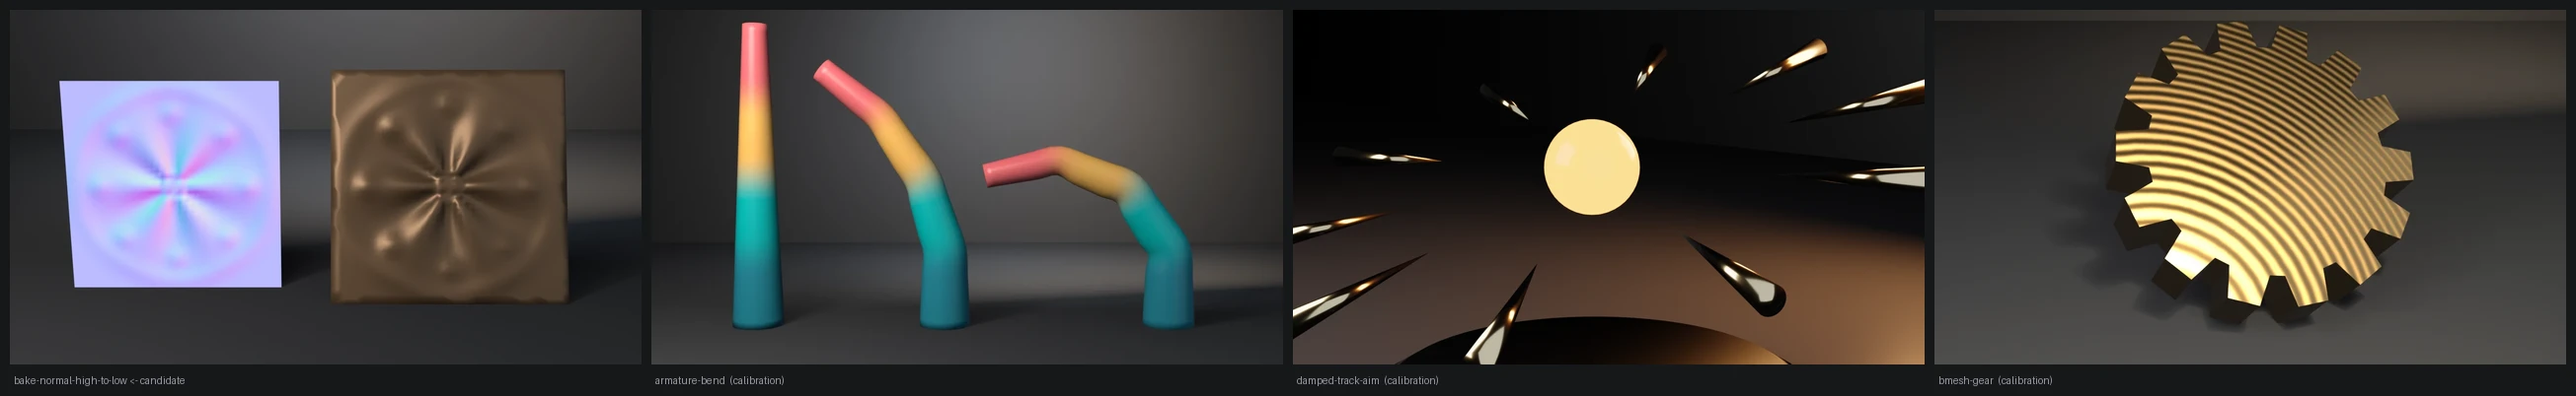
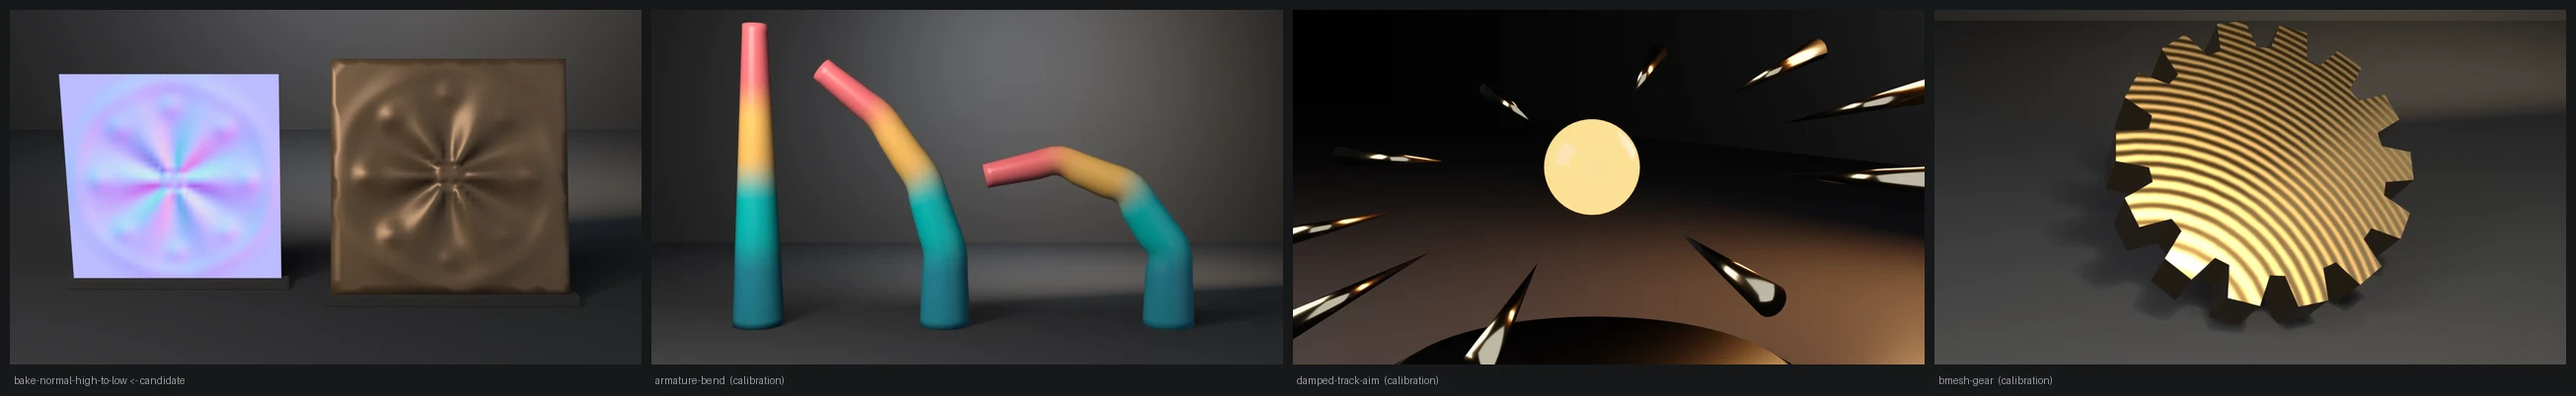
fix(examples): stand the bake-normal panels in plinths
Render path only. Both panels balanced on an edge and the leaning plate
pierced the floor; each now stands in a low plinth, lifted so its lowest
evaluated point seats 35 mm in the slot. The solidify rim wears plain
bronze rather than the baked map. Bake statistics (frac 0.7211, MAD
0.09356) and exit codes unchanged on all three binaries.

Changed region(s): [[0.0, 0.1493, 0.2172, 0.6269], [0.031, 0.6866, 0.2172, 0.7761]]

diff --git a/docs/gallery/bake-normal-high-to-low/index.html b/docs/gallery/bake-normal-high-to-low/index.html
@@ -16,13 +16,13 @@
   <meta property="og:image" content="https://tmhsdigital.github.io/Blender-Developer-Tools/gallery/assets/bake-normal-high-to-low-hero.webp" />
   <meta property="og:image:width" content="1280" />
   <meta property="og:image:height" content="720" />
-  <meta property="og:image:alt" content="A baked tangent-space normal map shown as a lilac card beside a bronze plate wearing it, with a radial embossed pattern." />
+  <meta property="og:image:alt" content="A baked tangent-space normal map shown as a lilac card beside a bronze plate wearing it, with a radial embossed pattern, both standing in low display plinths." />
   <meta property="og:site_name" content="Blender Developer Tools" />
   <meta name="twitter:card" content="summary_large_image" />
   <meta name="twitter:title" content="bake-normal-high-to-low — Examples — Blender Developer Tools" />
   <meta name="twitter:description" content="A collapse-decimated hatch plate receiving a Cycles cage-baked tangent normal map from a ribbed high-poly source" />
   <meta name="twitter:image" content="https://tmhsdigital.github.io/Blender-Developer-Tools/gallery/assets/bake-normal-high-to-low-hero.webp" />
-  <meta name="twitter:image:alt" content="A baked tangent-space normal map shown as a lilac card beside a bronze plate wearing it, with a radial embossed pattern." />
+  <meta name="twitter:image:alt" content="A baked tangent-space normal map shown as a lilac card beside a bronze plate wearing it, with a radial embossed pattern, both standing in low display plinths." />
   <style>
     /* fonts are deployed by the landing build (docs/fonts/) */
     @font-face { font-family: 'Barlow Condensed'; font-weight: 600; font-display: swap;
@@ -268,8 +268,8 @@
     <p>A collapse-decimated hatch plate receiving a Cycles cage-baked tangent normal map from a ribbed high-poly source</p>
   </header>
   <main id="main">
-    <button class="detail-hero" id="heroZoom" type="button" aria-label="View full size: A baked tangent-space normal map shown as a lilac card beside a bronze plate wearing it, with a radial embossed pattern.">
-      <img src="../assets/bake-normal-high-to-low-hero.webp" alt="A baked tangent-space normal map shown as a lilac card beside a bronze plate wearing it, with a radial embossed pattern." width="1280" height="720" />
+    <button class="detail-hero" id="heroZoom" type="button" aria-label="View full size: A baked tangent-space normal map shown as a lilac card beside a bronze plate wearing it, with a radial embossed pattern, both standing in low display plinths.">
+      <img src="../assets/bake-normal-high-to-low-hero.webp" alt="A baked tangent-space normal map shown as a lilac card beside a bronze plate wearing it, with a radial embossed pattern, both standing in low display plinths." width="1280" height="720" />
     </button>
     <p class="zoom-hint">Rendered headless by the example itself — click to zoom.</p>
     <div class="callout"><span class="tag">witnesses</span> Statistical gates not byte-identity: detail frac 0.7211 / MAD 0.09356 vs flat 0.0000 / 0.00277; --flat-source exits 5; type=NORMAL not bake_type; RNA identical on 4.5.11, 5.1.2, 5.2.1</div>
@@ -284,6 +284,7 @@
 <ul><li><strong>Detail bake is not flat.</strong> <code>frac &gt;= 0.40</code> and <code>MAD &gt;= 0.05</code> (measured 0.7211 / 0.09356 on 4.5.11, 5.1.2, and 5.2.1). Catches an inactive Image Texture node, reversed selection, or EEVEE/GPU mis-setup that writes a blank map. MAD floor is half the measured hatch value, still ~30× a flat bake.</li><li><strong>Flat control is flat.</strong> <code>frac &lt;= 0.05</code> and <code>MAD &lt;= 0.03</code> (measured 0.0000 / 0.00277). Catches a noisy or wrongly-typed bake that would also satisfy the detail gates.</li><li><strong>Monotonic gap.</strong> <code>detail_frac - flat_frac &gt;= 0.30</code>. The two maps must separate; a tolerance wide enough to pass both would have no discriminating power.</li><li><strong><code>--flat-source</code> is the falsifier.</strong> Skips the ribs and still runs the detail gates. Must exit 5. Analogous to <code>--same-axis</code> in <a href="https://github.com/TMHSDigital/Blender-Developer-Tools/tree/main/examples/export-preset-axis"><code>export-preset-axis</code></a>.</li></ul>
 <p>Neighbor of <a href="https://github.com/TMHSDigital/Blender-Developer-Tools/tree/main/examples/lod-decimate-chain"><code>lod-decimate-chain</code></a> (the LOD is the cage target; collapse keeps UVs) and <a href="https://github.com/TMHSDigital/Blender-Developer-Tools/tree/main/examples/image-pixels-testcard"><code>image-pixels-testcard</code></a> (<code>save_render</code>, not <code>Image.save()</code>, if you persist the datablock). UV transfer and atlas packing are out of scope.</p>
 <p>The still stages the baked map as an unlit card beside the LOD wearing it. If the bake were flat, the card would be uniform <code>(128, 128, 255)</code> periwinkle and the plate would shade like the undisplaced cage.</p>
+<p>Staging is render-only. Each panel stands in a low display plinth, lifted so its lowest evaluated point sits 35 mm in the slot. Both panels used to balance on an edge, and the leaning plate pierced the floor. The solidify rim wears plain bronze instead of the baked map. The slight waviness along the plate&#x27;s border is the bake itself, normal-map shading inside the UV margin, and is left as the map produces it. Bake statistics are unchanged: frac 0.7211, MAD 0.09356 on all three binaries.</p>
 <p>Operator RNA (<code>type=&#x27;NORMAL&#x27;</code>, <code>use_selected_to_active</code>, <code>cage_extrusion</code>, <code>cage_object</code> as a string, <code>normal_space=&#x27;TANGENT&#x27;</code>, <code>margin_type</code>) is identical on 4.5.11, 5.1.2, and 5.2.1 — no shim.</p>
 <h2>Run</h2>
 <pre><code># Cheap correctness check (no render) - the CI check:
@@ -686,6 +687,55 @@ FLAT_RGB = (<span class="n">0.5</span>, <span class="n">0.5</span>, <span class=
     <span class="k">return</span> ob
 
 
+PLINTH_H = <span class="n">0.10</span>
+PLINTH_SEAT = <span class="n">0.035</span>
+PLINTH_PAD = <span class="n">0.08</span>
+
+
+<span class="k">def</span> seat_on_plinth(ob, name):
+    <span class="s">&quot;&quot;&quot;Stand a display panel in a low plinth by its own lowest point.
+
+    Render-only staging. The panel is lifted so its lowest evaluated vertex
+    sits PLINTH_SEAT inside a dark slab sized from the panel&#x27;s footprint.
+    Both panels used to balance on an edge, and the leaning plate&#x27;s lower
+    edge pierced the floor.
+    &quot;&quot;&quot;</span>
+    bpy.context.view_layer.update()
+    dg = bpy.context.evaluated_depsgraph_get()
+    ev = ob.evaluated_get(dg)
+    me = ev.to_mesh()
+    <span class="k">try</span>:
+        pts = [ev.matrix_world @ v.co <span class="k">for</span> v <span class="k">in</span> me.vertices]
+    <span class="k">finally</span>:
+        ev.to_mesh_clear()
+    ob.location.z += (PLINTH_H - PLINTH_SEAT) - min(p.z <span class="k">for</span> p <span class="k">in</span> pts)
+    base = [p <span class="k">for</span> p <span class="k">in</span> pts <span class="k">if</span> p.z &lt; min(q.z <span class="k">for</span> q <span class="k">in</span> pts) + <span class="n">0.15</span>]
+    x0 = min(p.x <span class="k">for</span> p <span class="k">in</span> base) - PLINTH_PAD
+    x1 = max(p.x <span class="k">for</span> p <span class="k">in</span> base) + PLINTH_PAD
+    y0 = min(p.y <span class="k">for</span> p <span class="k">in</span> base) - PLINTH_PAD
+    y1 = max(p.y <span class="k">for</span> p <span class="k">in</span> base) + PLINTH_PAD
+    slab = bpy.data.meshes.new(name)
+    bm = bmesh.new()
+    <span class="k">try</span>:
+        bmesh.ops.create_cube(bm, size=<span class="n">1.0</span>)
+        <span class="k">for</span> v <span class="k">in</span> bm.verts:
+            v.co.x = (x0 + x1) / <span class="n">2</span> + v.co.x * (x1 - x0)
+            v.co.y = (y0 + y1) / <span class="n">2</span> + v.co.y * (y1 - y0)
+            v.co.z = PLINTH_H / <span class="n">2</span> + v.co.z * PLINTH_H
+        bmesh.ops.bevel(bm, geom=list(bm.edges), offset=<span class="n">0.012</span>, segments=<span class="n">2</span>,
+                        affect=<span class="s">&quot;EDGES&quot;</span>, clamp_overlap=<span class="k">True</span>)
+        bm.to_mesh(slab)
+    <span class="k">finally</span>:
+        bm.free()
+    pmat = bpy.data.materials.new(name + <span class="s">&quot;Mat&quot;</span>)
+    pmat.use_nodes = <span class="k">True</span>
+    paint_principled(pmat, (<span class="n">0.045</span>, <span class="n">0.042</span>, <span class="n">0.04</span>, <span class="n">1.0</span>), <span class="n">0.0</span>, <span class="n">0.55</span>)
+    slab.materials.append(pmat)
+    plinth = bpy.data.objects.new(name, slab)
+    bpy.context.scene.collection.objects.link(plinth)
+    <span class="k">return</span> plinth
+
+
 <span class="k">def</span> render_still(low, mat, tex, path, engine):
     scene = bpy.context.scene
     <span class="k">for</span> ob <span class="k">in</span> list(scene.objects):
@@ -694,13 +744,22 @@ FLAT_RGB = (<span class="n">0.5</span>, <span class="n">0.5</span>, <span class=
             ob.hide_viewport = <span class="k">True</span>
 
     wire_normal_map(mat, tex)
+    <span class="c"># The solidify rim is the plate&#x27;s edge, not baked surface: give it plain</span>
+    <span class="c"># bronze. Wearing the map, it sampled the UV border and rendered ragged.</span>
+    rim = bpy.data.materials.new(<span class="s">&quot;BronzeRim&quot;</span>)
+    rim.use_nodes = <span class="k">True</span>
+    paint_principled(rim, (<span class="n">0.22</span>, <span class="n">0.13</span>, <span class="n">0.07</span>, <span class="n">1.0</span>), <span class="n">0.58</span>, <span class="n">0.44</span>)
+    low.data.materials.append(rim)
     solid = low.modifiers.new(<span class="s">&quot;SolidifyDisplay&quot;</span>, <span class="s">&quot;SOLIDIFY&quot;</span>)
     solid.thickness = THICKNESS
     solid.offset = <span class="n">1.0</span>
+    solid.material_offset_rim = <span class="n">1</span>
     low.rotation_euler.x = math.radians(<span class="n">72.0</span>)
     low.location = (<span class="n">1.20</span>, <span class="n">0.0</span>, <span class="n">1.05</span>)
     card = make_map_card(tex.image)
     card.location = (-<span class="n">1.50</span>, <span class="n">0.0</span>, <span class="n">1.05</span>)
+    plinths = [seat_on_plinth(ob, name) <span class="k">for</span> ob, name <span class="k">in</span>
+               ((card, <span class="s">&quot;CardPlinth&quot;</span>), (low, <span class="s">&quot;PlatePlinth&quot;</span>))]
 
     floor_me = bpy.data.meshes.new(<span class="s">&quot;Floor&quot;</span>)
     bm = bmesh.new()
@@ -780,7 +839,7 @@ FLAT_RGB = (<span class="n">0.5</span>, <span class="n">0.5</span>, <span class=
         scene,
         cam,
         hero=[card, low],
-        elements=[card, low],
+        elements=[card, low] + plinths,
         stage=[floor, wall],
     )
     <span class="k">if</span> fcode:
@@ -840,7 +899,7 @@ FLAT_RGB = (<span class="n">0.5</span>, <span class="n">0.5</span>, <span class=
   </main>
   <dialog class="lightbox" id="lightbox" aria-label="Full-size render">
     <button class="lightbox-close" type="button" autofocus>Close</button>
-    <img src="../assets/bake-normal-high-to-low-hero.webp" alt="A baked tangent-space normal map shown as a lilac card beside a bronze plate wearing it, with a radial embossed pattern." />
+    <img src="../assets/bake-normal-high-to-low-hero.webp" alt="A baked tangent-space normal map shown as a lilac card beside a bronze plate wearing it, with a radial embossed pattern, both standing in low display plinths." />
   </dialog>
   <footer>
     <div class="statusbar">

diff --git a/examples/bake-normal-high-to-low/bake_normal_high_to_low.py b/examples/bake-normal-high-to-low/bake_normal_high_to_low.py
@@ -378,6 +378,55 @@ def make_map_card(image, name="BakeCard"):
     return ob
 
 
+PLINTH_H = 0.10
+PLINTH_SEAT = 0.035
+PLINTH_PAD = 0.08
+
+
+def seat_on_plinth(ob, name):
+    """Stand a display panel in a low plinth by its own lowest point.
+
+    Render-only staging. The panel is lifted so its lowest evaluated vertex
+    sits PLINTH_SEAT inside a dark slab sized from the panel's footprint.
+    Both panels used to balance on an edge, and the leaning plate's lower
+    edge pierced the floor.
+    """
+    bpy.context.view_layer.update()
+    dg = bpy.context.evaluated_depsgraph_get()
+    ev = ob.evaluated_get(dg)
+    me = ev.to_mesh()
+    try:
+        pts = [ev.matrix_world @ v.co for v in me.vertices]
+    finally:
+        ev.to_mesh_clear()
+    ob.location.z += (PLINTH_H - PLINTH_SEAT) - min(p.z for p in pts)
+    base = [p for p in pts if p.z < min(q.z for q in pts) + 0.15]
+    x0 = min(p.x for p in base) - PLINTH_PAD
+    x1 = max(p.x for p in base) + PLINTH_PAD
+    y0 = min(p.y for p in base) - PLINTH_PAD
+    y1 = max(p.y for p in base) + PLINTH_PAD
+    slab = bpy.data.meshes.new(name)
+    bm = bmesh.new()
+    try:
+        bmesh.ops.create_cube(bm, size=1.0)
+        for v in bm.verts:
+            v.co.x = (x0 + x1) / 2 + v.co.x * (x1 - x0)
+            v.co.y = (y0 + y1) / 2 + v.co.y * (y1 - y0)
+            v.co.z = PLINTH_H / 2 + v.co.z * PLINTH_H
+        bmesh.ops.bevel(bm, geom=list(bm.edges), offset=0.012, segments=2,
+                        affect="EDGES", clamp_overlap=True)
+        bm.to_mesh(slab)
+    finally:
+        bm.free()
+    pmat = bpy.data.materials.new(name + "Mat")
+    pmat.use_nodes = True
+    paint_principled(pmat, (0.045, 0.042, 0.04, 1.0), 0.0, 0.55)
+    slab.materials.append(pmat)
+    plinth = bpy.data.objects.new(name, slab)
+    bpy.context.scene.collection.objects.link(plinth)
+    return plinth
+
+
 def render_still(low, mat, tex, path, engine):
     scene = bpy.context.scene
     for ob in list(scene.objects):
@@ -386,13 +435,22 @@ def render_still(low, mat, tex, path, engine):
             ob.hide_viewport = True
 
     wire_normal_map(mat, tex)
+    # The solidify rim is the plate's edge, not baked surface: give it plain
+    # bronze. Wearing the map, it sampled the UV border and rendered ragged.
+    rim = bpy.data.materials.new("BronzeRim")
+    rim.use_nodes = True
+    paint_principled(rim, (0.22, 0.13, 0.07, 1.0), 0.58, 0.44)
+    low.data.materials.append(rim)
     solid = low.modifiers.new("SolidifyDisplay", "SOLIDIFY")
     solid.thickness = THICKNESS
     solid.offset = 1.0
+    solid.material_offset_rim = 1
     low.rotation_euler.x = math.radians(72.0)
     low.location = (1.20, 0.0, 1.05)
     card = make_map_card(tex.image)
     card.location = (-1.50, 0.0, 1.05)
+    plinths = [seat_on_plinth(ob, name) for ob, name in
+               ((card, "CardPlinth"), (low, "PlatePlinth"))]
 
     floor_me = bpy.data.meshes.new("Floor")
     bm = bmesh.new()
@@ -472,7 +530,7 @@ def render_still(low, mat, tex, path, engine):
         scene,
         cam,
         hero=[card, low],
-        elements=[card, low],
+        elements=[card, low] + plinths,
         stage=[floor, wall],
     )
     if fcode:

diff --git a/examples/bake-normal-high-to-low/README.md b/examples/bake-normal-high-to-low/README.md
@@ -41,6 +41,14 @@ The still stages the baked map as an unlit card beside the LOD wearing it.
 If the bake were flat, the card would be uniform `(128, 128, 255)` periwinkle
 and the plate would shade like the undisplaced cage.
 
+Staging is render-only. Each panel stands in a low display plinth, lifted
+so its lowest evaluated point sits 35 mm in the slot. Both panels used to
+balance on an edge, and the leaning plate pierced the floor. The
+solidify rim wears plain bronze instead of the baked map. The slight
+waviness along the plate's border is the bake itself, normal-map shading
+inside the UV margin, and is left as the map produces it. Bake
+statistics are unchanged: frac 0.7211, MAD 0.09356 on all three binaries.
+
 Operator RNA (`type='NORMAL'`, `use_selected_to_active`, `cage_extrusion`,
 `cage_object` as a string, `normal_space='TANGENT'`, `margin_type`) is
 identical on 4.5.11, 5.1.2, and 5.2.1 — no shim.
